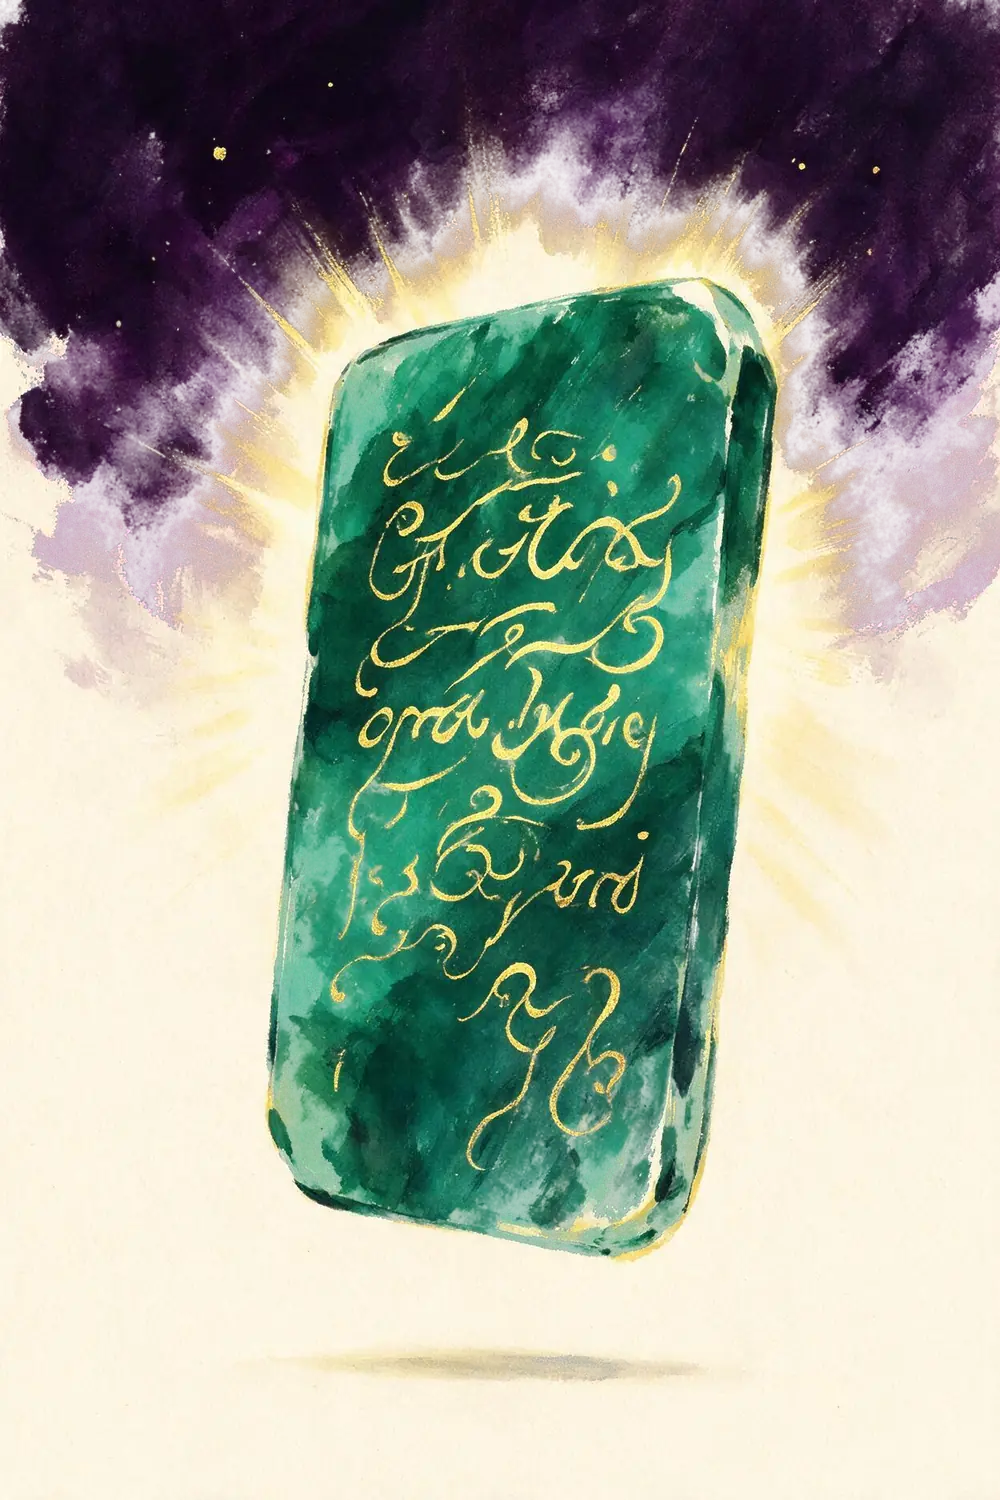
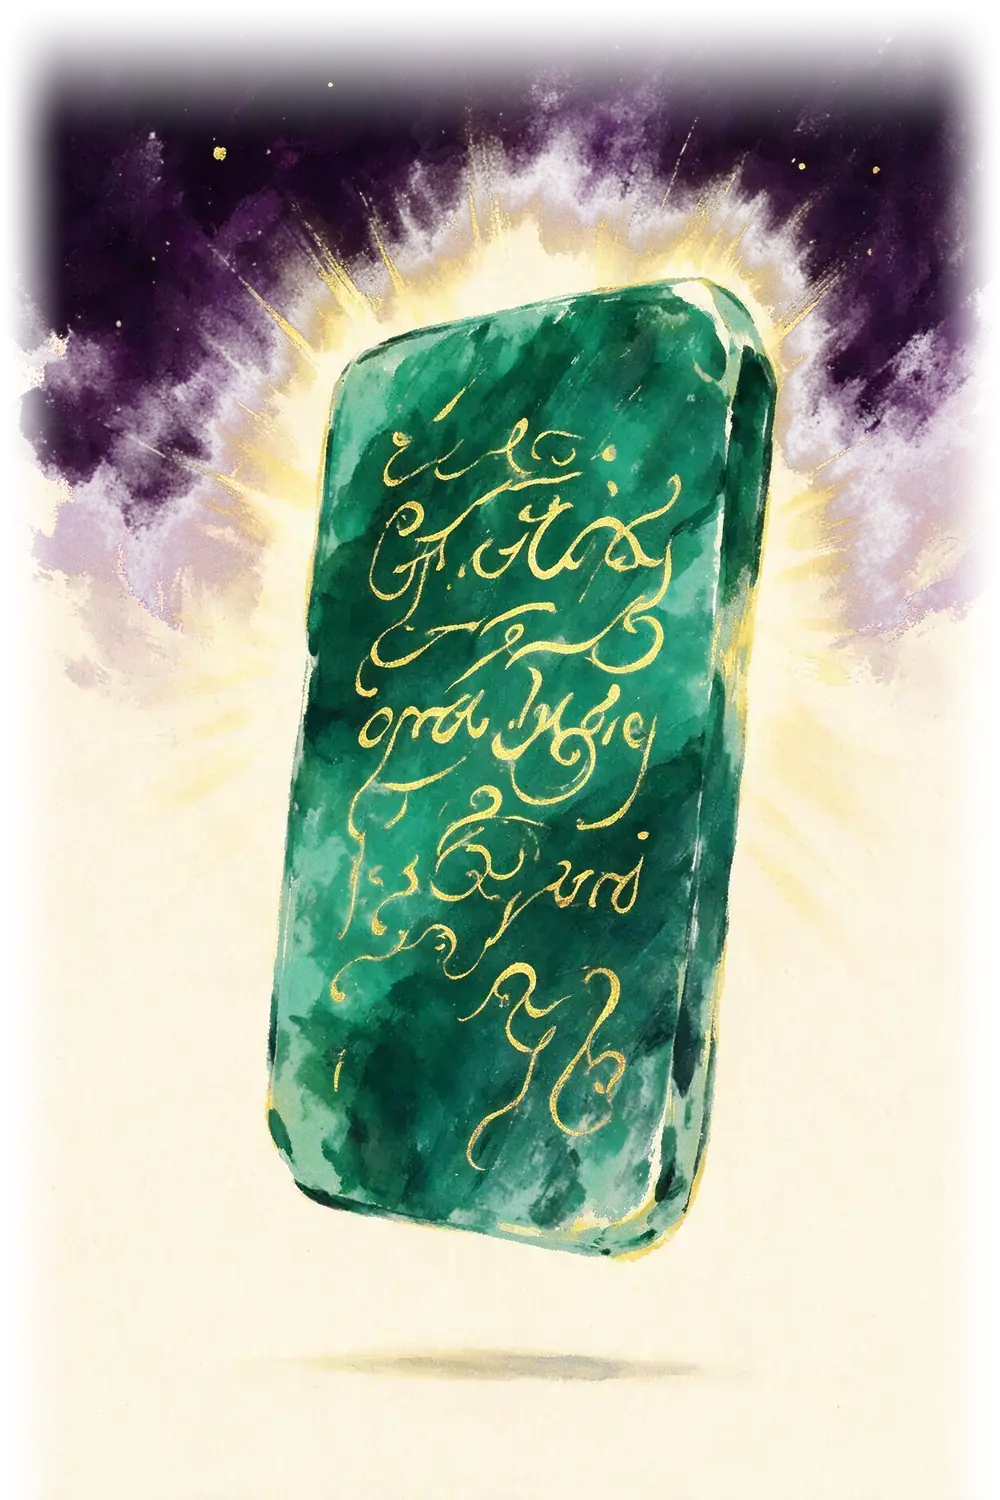
ATF: Emerald Tablet source quote + feathered hero edges

Changed region(s): [[0.0, 0.0, 1.0, 1.0]]

diff --git a/thehermeticum/assets/site.css b/thehermeticum/assets/site.css
@@ -446,3 +446,7 @@
 
   .cx__date{margin-left:auto;font-family:var(--font-ui);font-size:.6rem;font-weight:600;letter-spacing:.08em;color:var(--gold);font-style:normal;white-space:nowrap;padding-left:.8em}
   .hub__date{font-family:var(--font-ui);font-size:.62rem;font-weight:600;letter-spacing:.08em;color:var(--gold);font-style:normal;margin-left:.7em}
+
+  .hero__source{max-width:34rem;margin:var(--sp6) 0 0;padding-left:var(--sp4);border-left:2px solid var(--gold-bright);font-style:italic;font-size:.98rem;line-height:1.55;color:var(--ink-muted)}
+  .hero__source a{display:block;margin-top:.4em;font-family:var(--font-ui);font-style:normal;font-size:.68rem;font-weight:600;letter-spacing:.08em;color:var(--vermilion);text-decoration:none}
+  .hero__source a:hover{text-decoration:underline}

diff --git a/thehermeticum/index.html b/thehermeticum/index.html
@@ -150,6 +150,9 @@
           <span class="hero__cta-note">15 minutes a week · free · one letter, every week</span>
         </div>
       </div>
+      <p class="hero__source reveal">&ldquo;What is below is like what is above, and what is above is like what is below &mdash;
+      for preparing the miracles of the one thing.&rdquo;
+      <a href="/texts/emerald-tablet/">&mdash; the Emerald Tablet, our working translation &rarr;</a></p>
     </div>
     <a class="hero__cue" href="#hooks" aria-label="Scroll to content"><span></span></a>
   </header>
